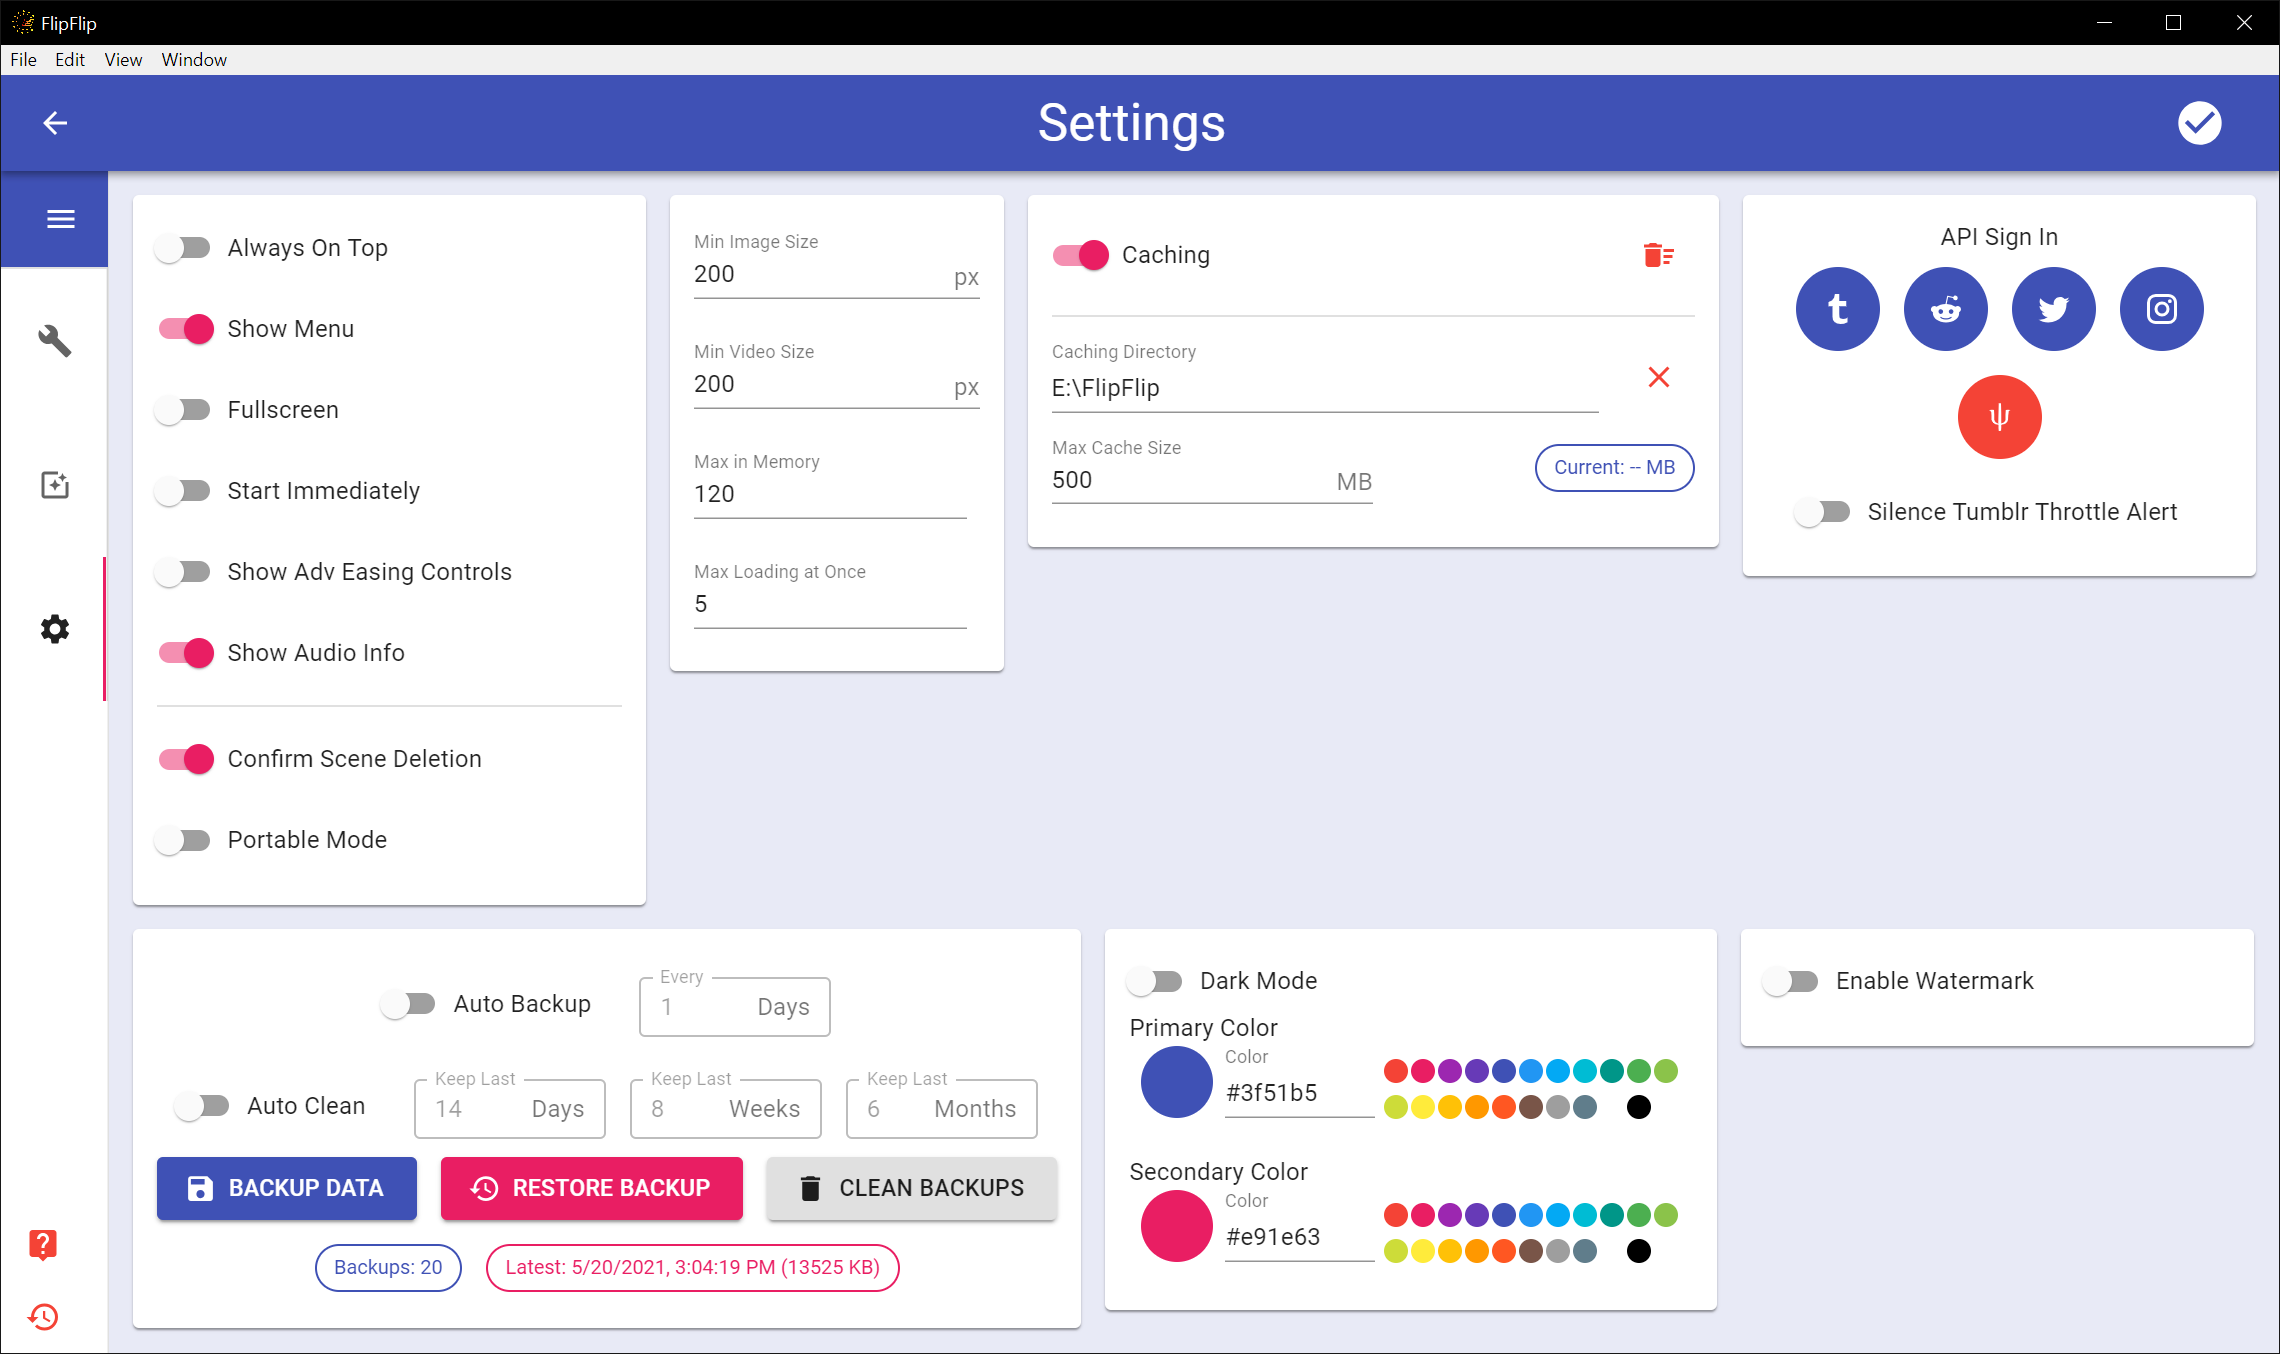
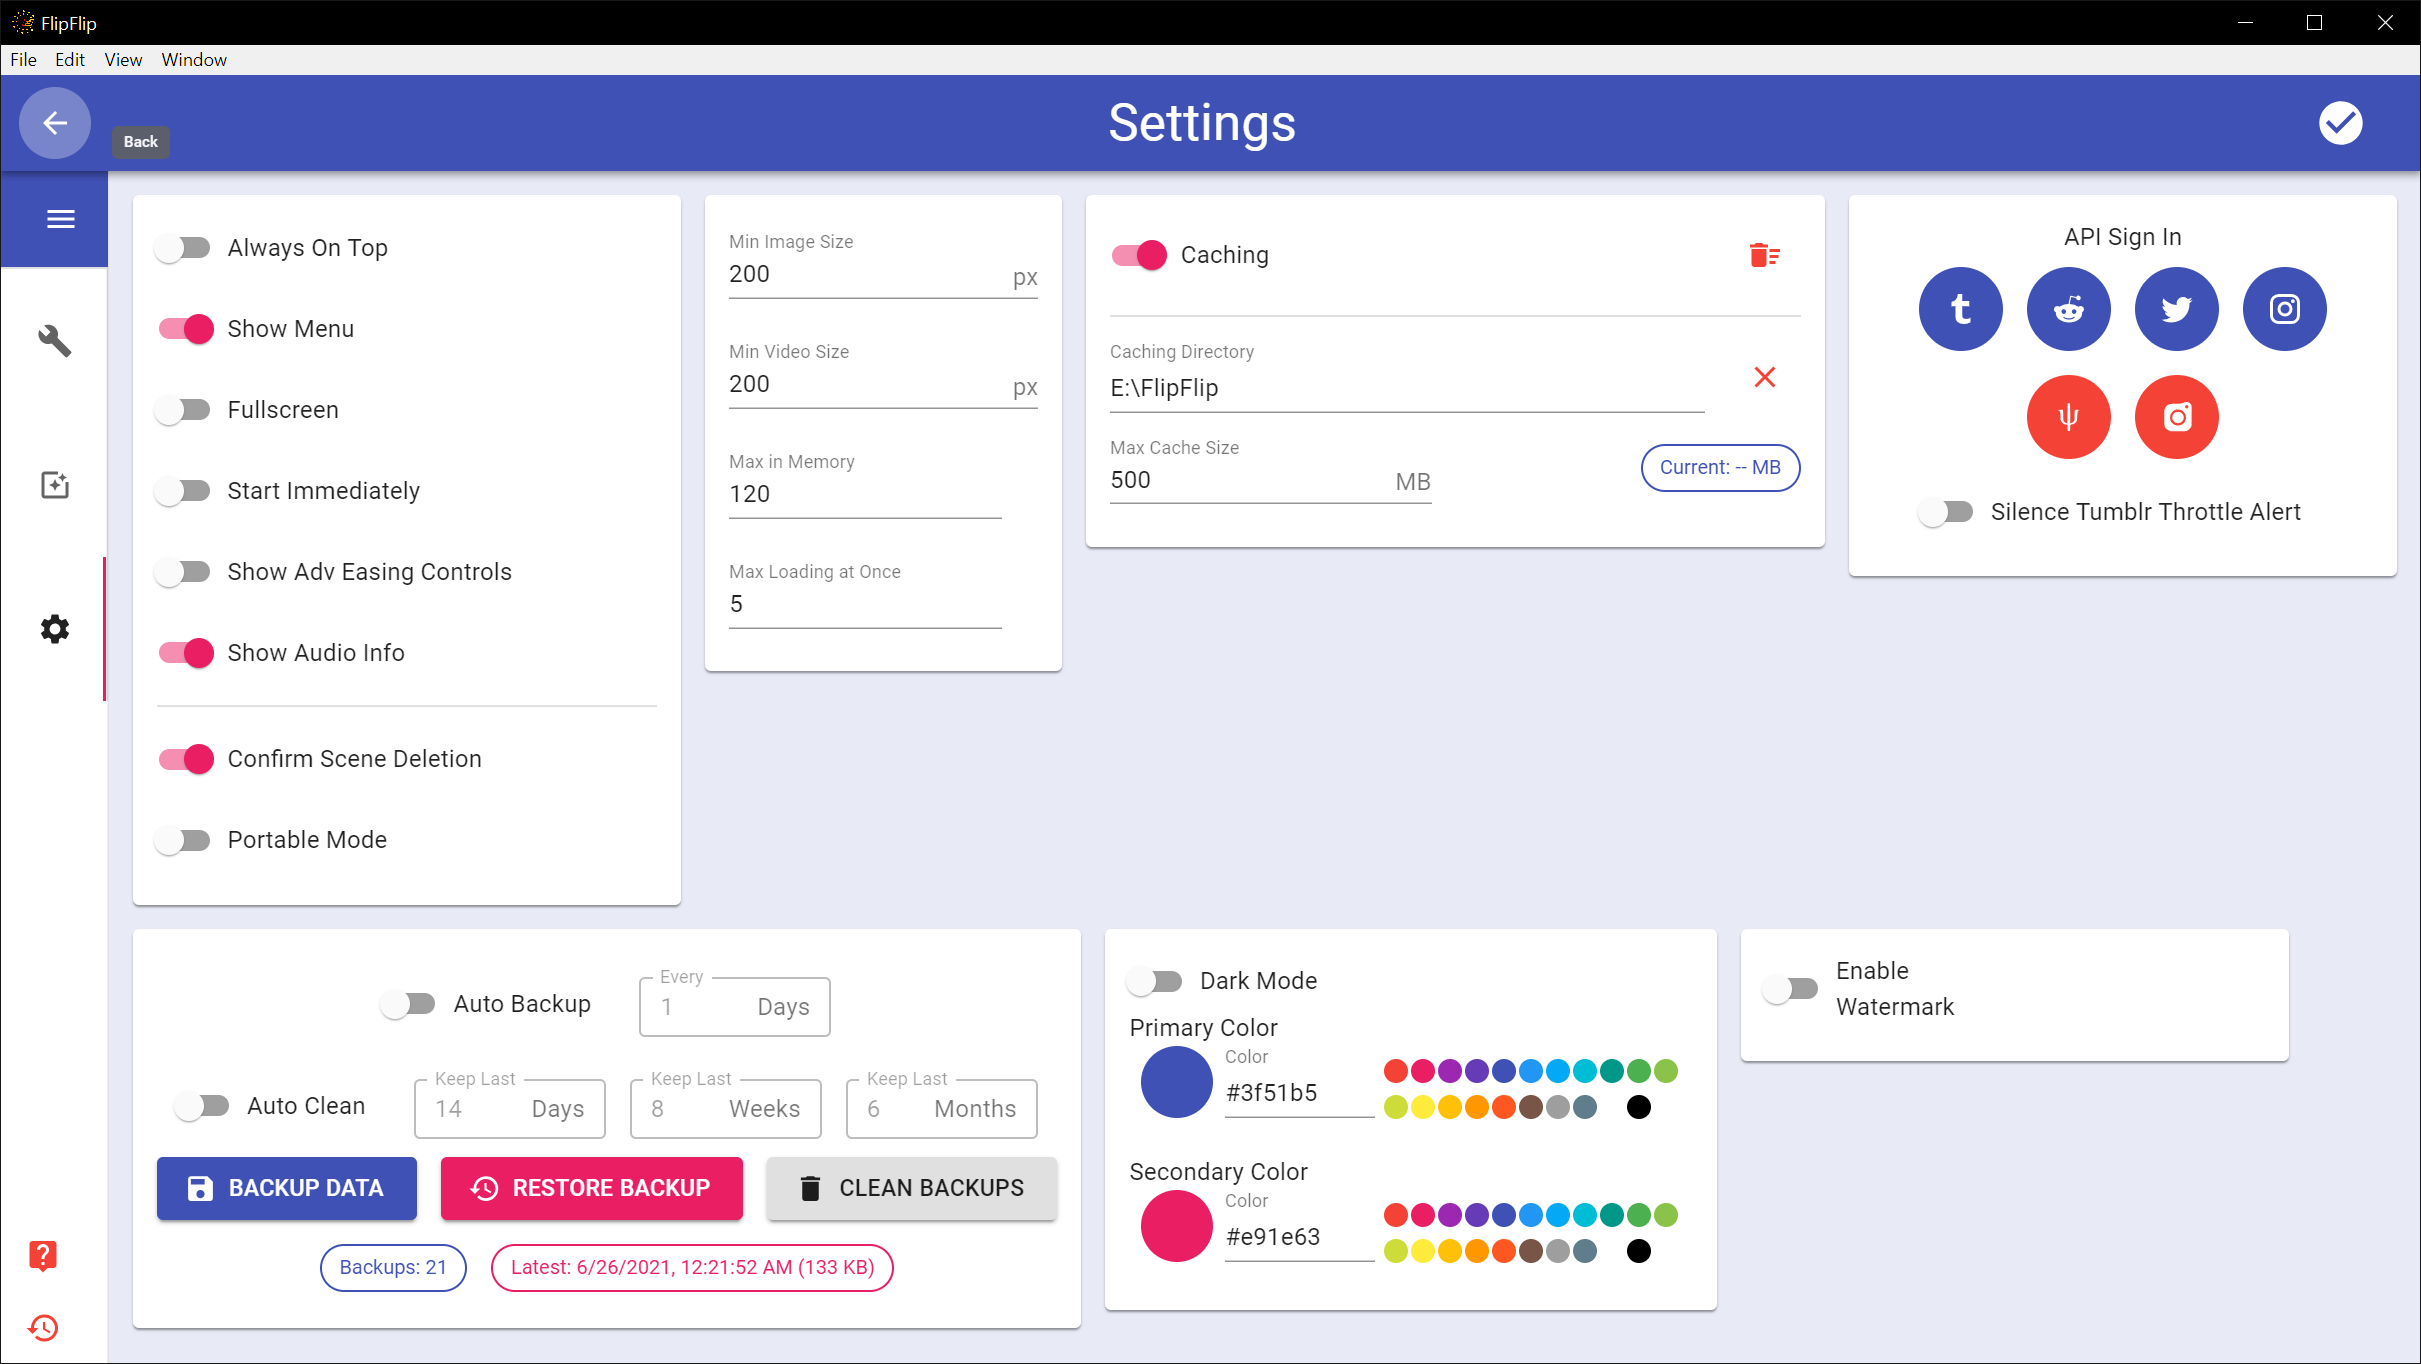
Prep for v3.1.4

diff --git a/src/renderer/data/actions.ts b/src/renderer/data/actions.ts
@@ -377,8 +377,10 @@ export function cleanBackups(config: Config) {
       let lastMonth = convertFromEpoch(keepMonths[keepMonths.length - 1].url);
 
       if (moment(backupDate).isSame(lastDay, 'day')) {
-        if (backupDate < lastDay) {
-          keepDays[keepDays.length - 1]  = backup;
+        if (moment(backupDate).isSame(new Date(), 'day') && backupDate > lastDay) {
+          keepDays[keepDays.length - 1] = backup;
+        } else if (!moment(backupDate).isSame(new Date(), 'day') && backupDate < lastDay) {
+          keepDays[keepDays.length - 1] = backup;
         }
       } else if (keepDays.length < config.generalSettings.autoCleanBackupDays) {
         keepDays.push(backup);
@@ -386,7 +388,7 @@ export function cleanBackups(config: Config) {
 
       if (moment(backupDate).isSame(lastWeek, 'week')) {
         if (backupDate < lastWeek) {
-          keepWeeks[keepWeeks.length - 1]  = backup;
+          keepWeeks[keepWeeks.length - 1] = backup;
         }
       } else if (keepWeeks.length < config.generalSettings.autoCleanBackupWeeks) {
         keepWeeks.push(backup);
@@ -394,7 +396,7 @@ export function cleanBackups(config: Config) {
 
       if (moment(backupDate).isSame(lastMonth, 'month')) {
         if (backupDate < lastWeek) {
-          keepMonths[keepMonths.length - 1]  = backup;
+          keepMonths[keepMonths.length - 1] = backup;
         }
       } else if (keepMonths.length < config.generalSettings.autoCleanBackupMonths) {
         keepMonths.push(backup);

diff --git a/src/renderer/data/utils.ts b/src/renderer/data/utils.ts
@@ -73,7 +73,7 @@ export function getBackups(): Array<{url: string, size: number}> {
   const files = fs.readdirSync(saveDir);
   const backups = Array<any>();
   for (let file of files) {
-    if (file.startsWith("data.json.")) {
+    if (file.startsWith("data.json.") && file != "data.json.new") {
       const stats = fs.statSync(saveDir + "/" + file);
       backups.push({url: file, size: stats.size});
     }

diff --git a/docs/sources.md b/docs/sources.md
@@ -109,6 +109,7 @@ local video/playlist file, add a `Local video/playlsit` and choose the video(s) 
 * <img style="vertical-align: -2px; margin-right: 5px" src="doc_icons/gelbooru.png" alt="Gelbooru" width="15" height="15">Gelbooru Tag
 * <img style="vertical-align: -2px; margin-right: 5px" src="doc_icons/ehentai.png" alt="E-Hentai" width="15" height="15">E-Hentai Gallery
 * <img style="vertical-align: -2px; margin-right: 5px" src="doc_icons/hydrus.svg" alt="Hydrus" width="15" height="15">Hydrus Tag
+* <img style="vertical-align: -2px; margin-right: 5px" src="doc_icons/piwigo.svg" alt="Piwigo" width="15" height="15">Piwigo Album
 * <img style="vertical-align: -2px; margin-right: 5px" src="doc_icons/b.svg" alt="BDSMlr" width="15" height="15">BDSMlr Blog (Only works for blogs with images in RSS feed)
 * ~~<img style="vertical-align: -2px" src="doc_icons/sexcom.svg" alt="Sex.com" width="15" height="15"> Sex.com Gallery/User~~ _Currently broken_
 

diff --git a/docs/changelog.md b/docs/changelog.md
@@ -1,4 +1,16 @@
 # Changelog
+## 3.1.4 <small>(06/26/2021)</small>
+- Add Piwigo support (abrenoch)
+- Add <Unclipped> filter
+- Add option to toggle grid cell watermarks
+- Fix bug with saving data.json
+- Fix bug with auto clean algorithm
+- Fix bug with grid cells being cut-off
+- Fix bug with adding script to library
+- Fix tagging UI in Video Clipper
+- Fix bug with duplicate caption tracks appearing on videos
+- Fix bug with Scene Generator tutorial
+- Fix bug with menu settings not resetting when ending playback
 
 ## 3.1.3 <small>(05/21/2021)</small>
 - Scrape images in separate thread
